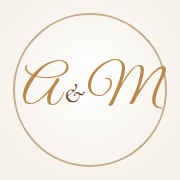
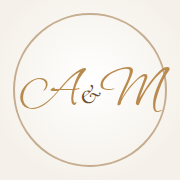
Nomes dos noivos na fonte Ephesis
Troca a Great Vibes pela Ephesis (OFL), mais próxima da Brittany do
convite, no hero, no menu, no rodapé, na prévia do WhatsApp e no ícone.

Claude-Session: https://claude.ai/code/session_016SUTMqm1aWW5eSGmYfVJZ4

Changed region(s): [[0.1111, 0.3056, 0.9444, 0.6389]]

diff --git a/site/assets/css/styles.css b/site/assets/css/styles.css
@@ -37,11 +37,11 @@
   src: url("../fonts/cormorant-garamond-latin-600-normal.woff2") format("woff2");
 }
 @font-face {
-  font-family: "Great Vibes";
+  font-family: "Ephesis";
   font-style: normal;
   font-weight: 400;
   font-display: swap;
-  src: url("../fonts/great-vibes-latin-400-normal.woff2") format("woff2");
+  src: url("../fonts/ephesis-latin-400-normal.woff2") format("woff2");
 }
 @font-face {
   font-family: "Montserrat";
@@ -79,7 +79,7 @@
   --line-strong: #a5804f;     /* bordas de campos (contraste >= 3:1, WCAG 1.4.11) */
   --shadow: 0 24px 80px rgba(93, 63, 30, .10);
   --serif: "Cormorant Garamond", "Cormorant", Garamond, "Times New Roman", serif;
-  --script: "Great Vibes", "Snell Roundhand", cursive;
+  --script: "Ephesis", "Snell Roundhand", cursive;
   --sans: "Montserrat", "Helvetica Neue", Arial, sans-serif;
 }
 

diff --git a/site/index.html b/site/index.html
@@ -27,7 +27,7 @@
 
   <link rel="icon" href="assets/img/favicon-32.png" sizes="32x32" type="image/png" />
   <link rel="apple-touch-icon" href="assets/img/apple-touch-icon.png" />
-  <link rel="preload" href="assets/fonts/great-vibes-latin-400-normal.woff2" as="font" type="font/woff2" crossorigin />
+  <link rel="preload" href="assets/fonts/ephesis-latin-400-normal.woff2" as="font" type="font/woff2" crossorigin />
   <link rel="preload" href="assets/fonts/cormorant-garamond-latin-400-italic.woff2" as="font" type="font/woff2" crossorigin />
   <link rel="stylesheet" href="assets/css/styles.css" />
 </head>

diff --git a/README.md b/README.md
@@ -199,7 +199,7 @@ CLAUDE.md                    instruções para futuras sessões do Claude
 ## Créditos
 
 - **Convite e identidade visual:** Marina (protótipo original do site).
-- **Fontes:** Cormorant Garamond, Great Vibes e Montserrat, sob a licença [SIL Open Font License 1.1](https://openfontlicense.org), empacotadas pelo [Fontsource](https://fontsource.org) (texto da licença em `site/assets/fonts/LICENCAS-OFL.txt`).
+- **Fontes:** Cormorant Garamond, Ephesis e Montserrat, sob a licença [SIL Open Font License 1.1](https://openfontlicense.org), empacotadas pelo [Fontsource](https://fontsource.org) (texto da licença em `site/assets/fonts/LICENCAS-OFL.txt`).
 - **QR Code:** [qrcode-generator](https://github.com/kazuhikoarase/qrcode-generator), de Kazuhiko Arase, licença MIT (`site/assets/vendor/qrcode.js`).
 - **Testes (só desenvolvimento):** Playwright, jsQR, pngjs e pix-utils.
 

diff --git a/CLAUDE.md b/CLAUDE.md
@@ -25,7 +25,7 @@ nomes de funções e variáveis em inglês.
   Chave vazia ou inválida mantém `html[data-pix="em-breve"]`.
 - Fotos dos presentes: JPEG 960x720, até 150 KB, em `site/assets/img/presentes/`.
 - Manter a identidade visual do convite: paleta dourado, marrom e creme; fontes Cormorant Garamond,
-  Great Vibes e Montserrat.
+  Ephesis e Montserrat.
 - Textos do site em pt-BR, tom caloroso e direto; não inventar dados dos noivos.
 - Mudou o DOM, um `data-testid` ou o `config.js`? Atualize testes e README no mesmo commit.
 - Antes de publicar, `npm test` e `npx playwright test` precisam passar. Publicar = push na `main`
